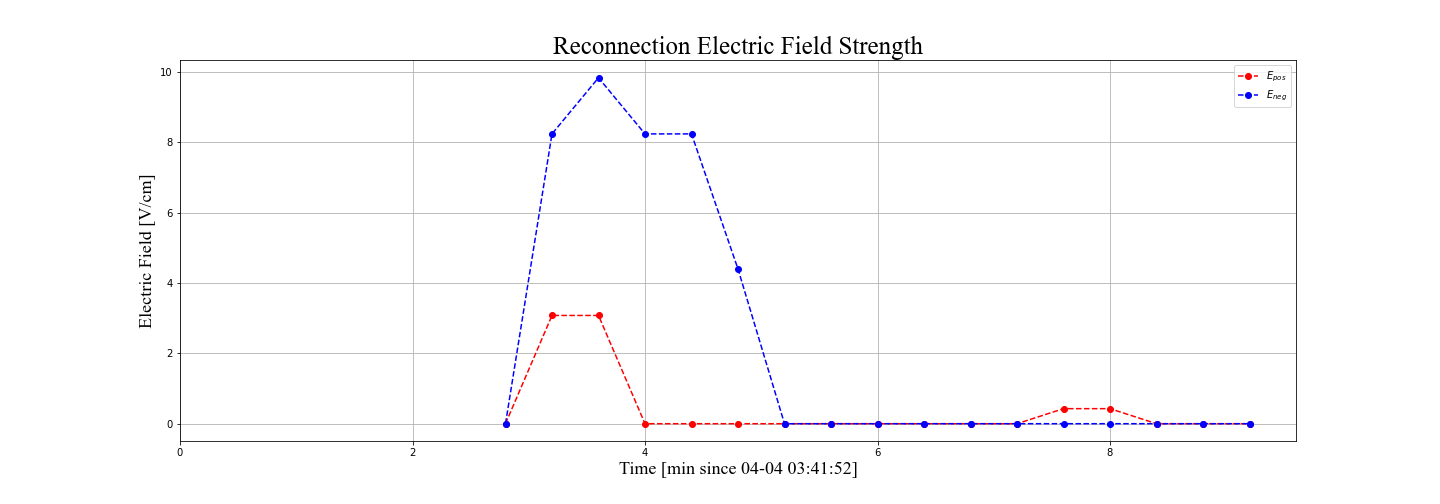
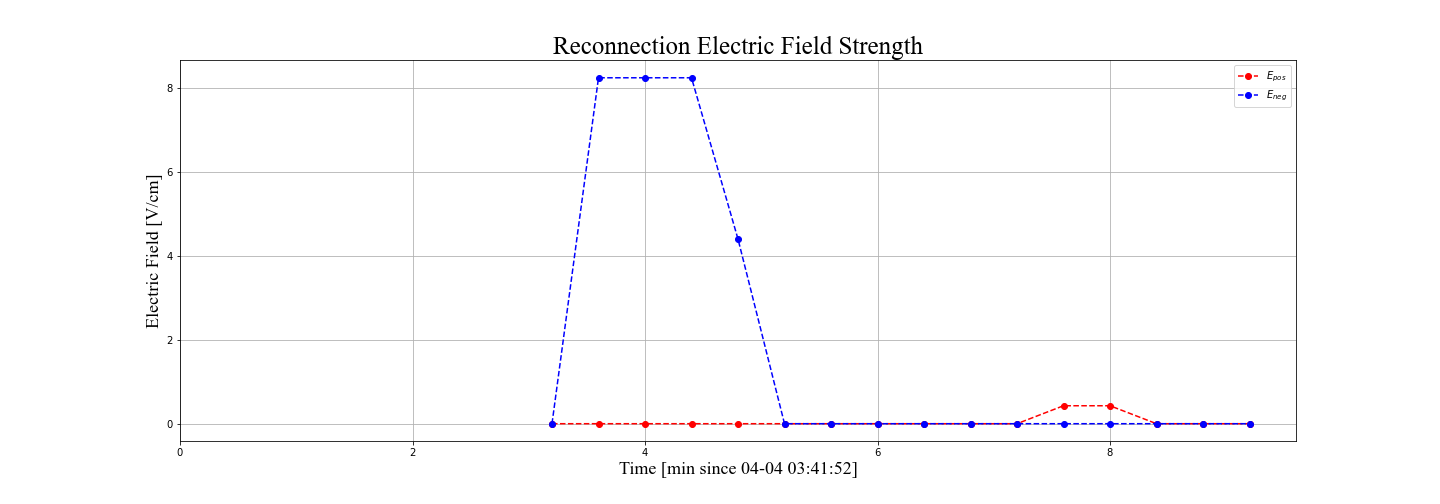
high1 new fourpanel

diff --git a/high1_process.py b/high1_process.py
@@ -57,9 +57,9 @@ pil_mask_c, ivs, dvs, hmik = fl_funcs.pil_gen(
 
 print("Separation values determination.")
 
-aia8_pos, aia8_neg = fl_funcs.mask_sep(aia_step8, hmi_dat)
+aia8_pos_step, aia8_neg_step = fl_funcs.mask_sep(aia_step8, hmi_dat)
 
-pos_rem0, neg_rem0 = fl_funcs.spur_removal_sep2(aia8_pos, aia8_neg, klo2=200)
+pos_rem0, neg_rem0 = fl_funcs.spur_removal_sep2(aia8_pos_step, aia8_neg_step, klo2=200)
 
 distpos_med, distpos_mean, distneg_med, distpos_mean \
     = fl_funcs.separation(aia_step8, ivs, dvs, pos_rem0, neg_rem0)
@@ -125,7 +125,7 @@ startin, peakin, endin, times, s304, e304, filter_304, med304, std304, \
                                         flnum, start304, peak304, end304,
                                         times304, curves304)
 
-posrib, negrib, pos1600, neg1600 = fl_funcs.img_mask(aia8_pos, aia8_neg,
+posrib, negrib, pos1600, neg1600 = fl_funcs.img_mask(aia8_pos_step, aia8_neg_step,
                                                      aiadat, nt)
 
 print("Determining the regions of separation and elongation.")
@@ -246,10 +246,10 @@ posxhi = xlim1_pos
 
 # Isolate ribbons appropriately for shear analysis
 aia_neg_rem_shear, aia_pos_rem_shear = fl_funcs.\
-    shear_ribbon_isolation(aia8_neg, aia8_pos, med_x, med_y, negylow=negylow,
+    shear_ribbon_isolation(aia8_neg_step, aia8_pos_step, med_x, med_y, negylow=negylow,
                            negyhi=negyhi, posylow=posylow, posyhi=posyhi,
                            negxlow=negxlow, negxhi=negxhi, posxlow=posxlow,
-                           posxhi=posxhi)
+                           posxhi=posxhi, flag=1)
 
 # Left and right coordinates of positive and negative ribbons
 lr_coord_neg_shear, lr_coord_pos_shear = \
@@ -299,6 +299,15 @@ E_pos, E_neg, E_rat, time_E = fl_funcs.E_field_det(conv_f, distpos_med,
                                                    hmi_dat, pos_rem, neg_rem, 
                                                    flnum, dt1600, times,
                                                    startind=gfr_trans)
+
+E_pos = np.append(E_pos,E_pos[-1])
+E_neg = np.append(E_neg,E_neg[-1])
+
+shear_ang_left, shear_ang_right = fl_funcs.shear_to_angle(times,flnum,dt1600, gfr, gfr)
+
+quartermaxtim = fl_funcs.quartermaxtime(gfr_trans, gfr, gfr, timelab, fl_funcs.find_nearest_ind, flag = 0)
+
+print(quartermaxtim)
 
 fl_funcs.plt_fourpanel(times, gfr, gfr, flnum, dt1600, time304,
                   filter_304, lens_pos_Mm, lens_neg_Mm, distpos_Mm, distneg_Mm,

diff --git a/mid1_process.py b/mid1_process.py
@@ -326,11 +326,6 @@ quartermaxtim = fl_funcs.quartermaxtime(gfr_trans, right_gfr, left_gfr, timelab,
 print(quartermaxtim)
 
 
-E_pos, E_neg, E_rat, time_E = fl_funcs.E_field_det(conv_f, distpos_med,
-                                                   distneg_med, timelab, 
-                                                   hmi_dat, pos_rem, neg_rem, 
-                                                   flnum, dt1600, times,
-                                                   startind=gfr_trans)
 
 fl_funcs.plt_fourpanel(times, right_gfr, left_gfr, flnum, dt1600, time304,
                   filter_304, lens_pos_Mm, lens_neg_Mm, distpos_Mm, distneg_Mm,
